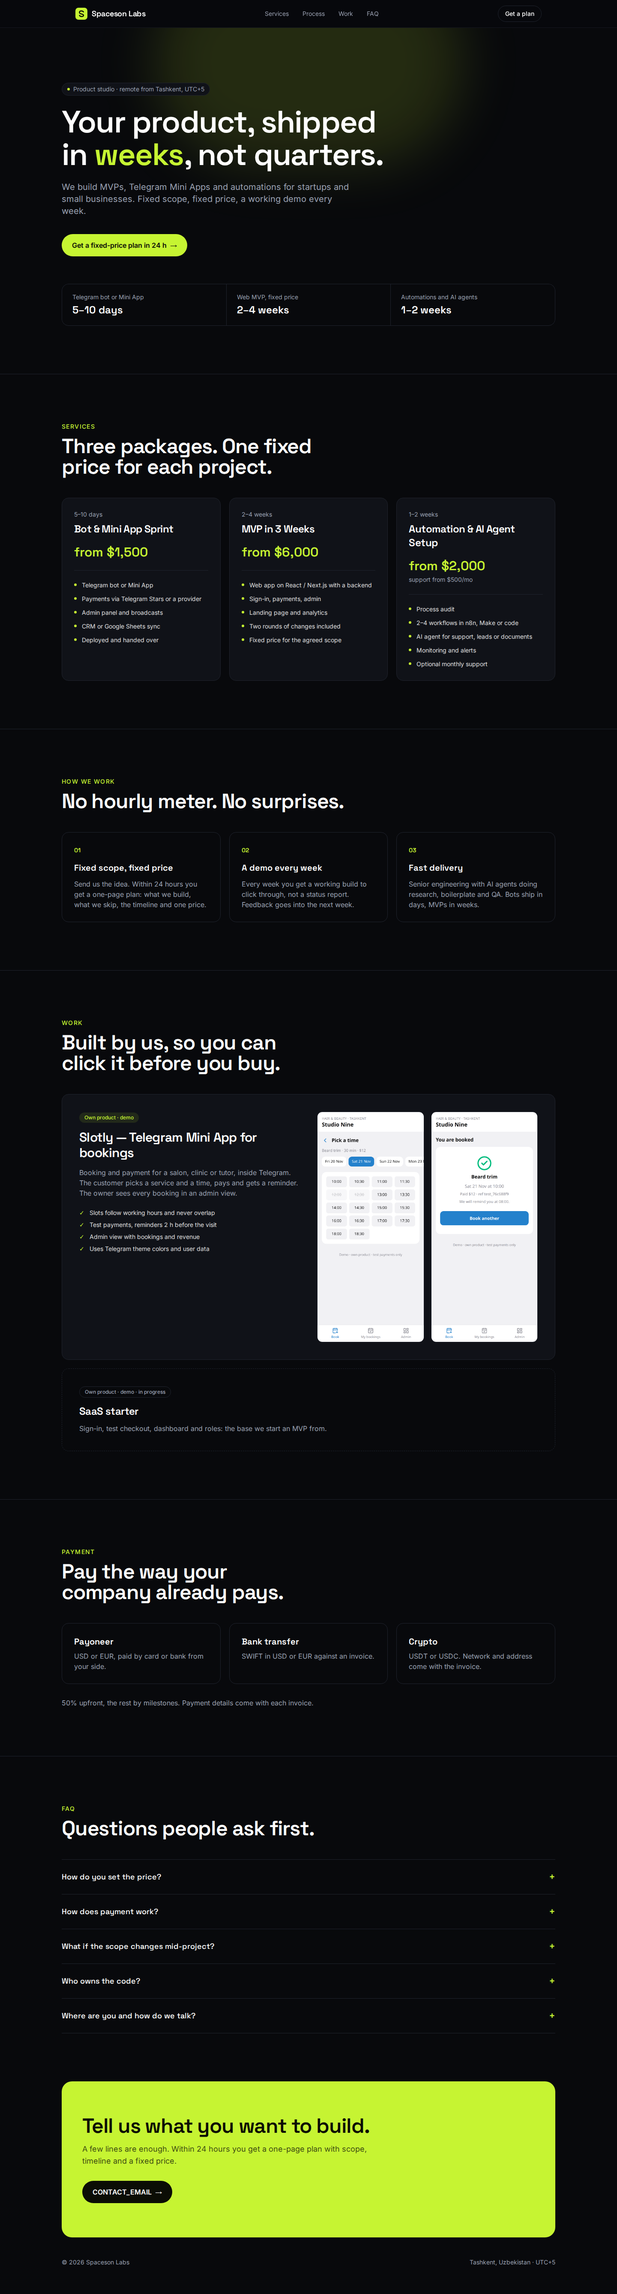
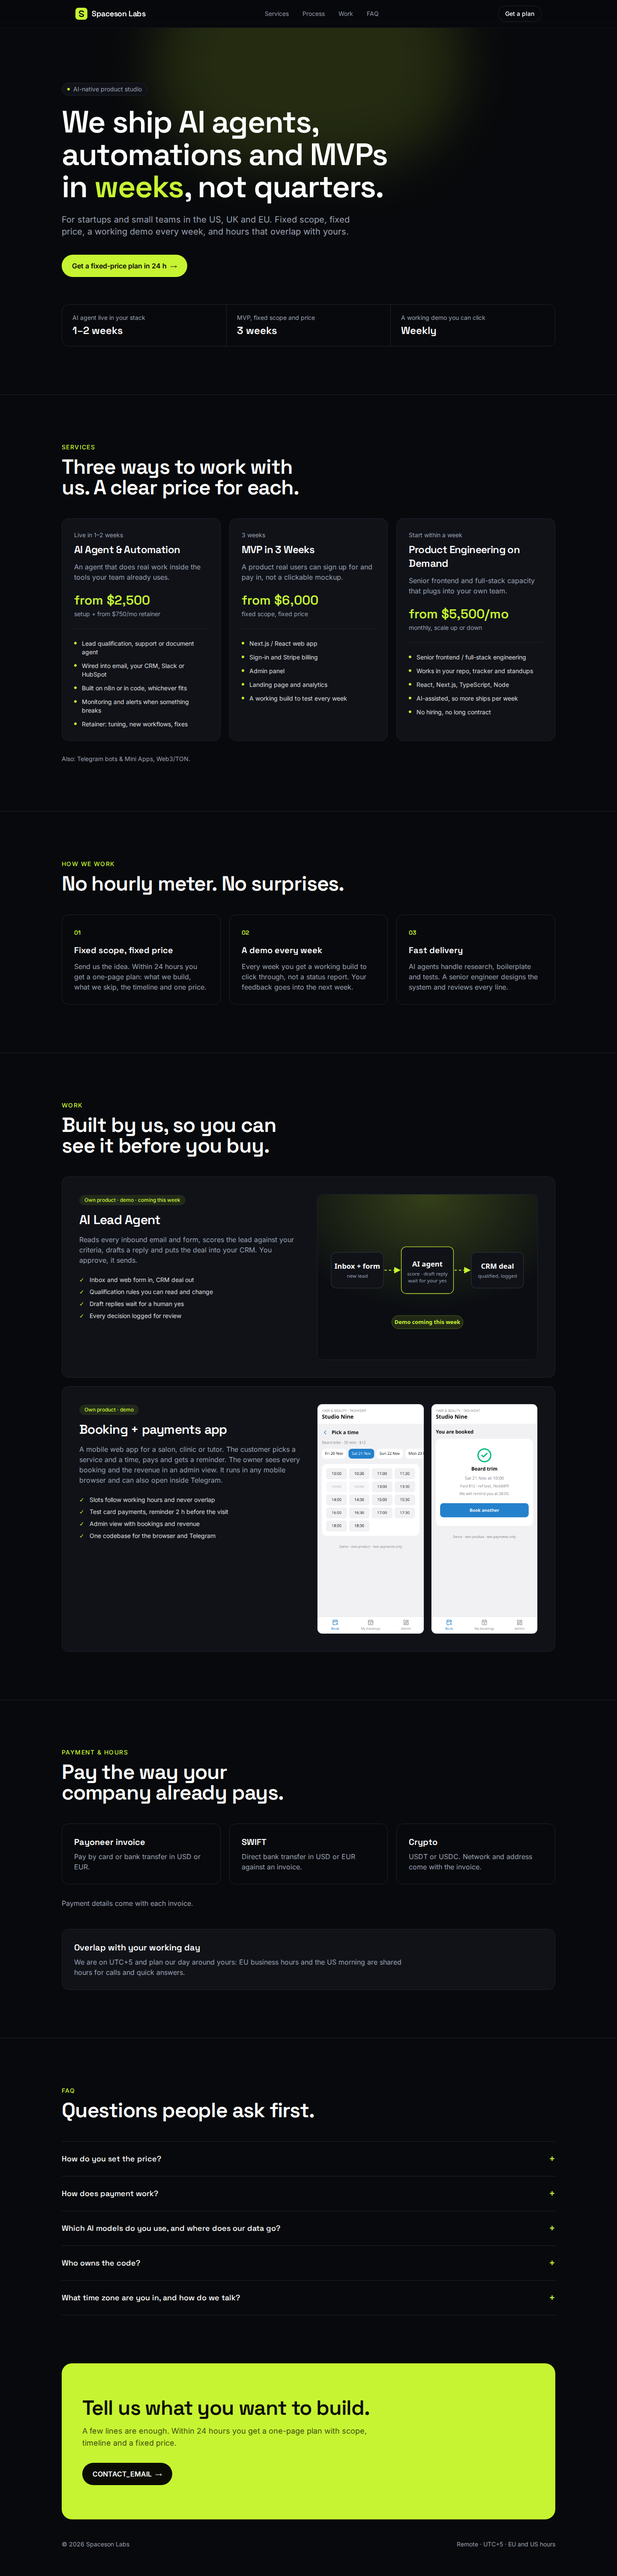
feat: reposition the site as an AI-native product studio
Lead with AI agents, automations and MVPs for US/UK/EU teams. New packages: AI Agent & Automation, MVP in 3 Weeks, Product Engineering on Demand; Telegram moves to one line under services. Work shows an AI Lead Agent placeholder and the booking app as a mobile web app. Adds Payoneer invoice, SWIFT and crypto payment, time zone overlap and a refreshed OG image.

diff --git a/src/config.ts b/src/config.ts
@@ -3,56 +3,66 @@ export const CONTACT_EMAIL = 'CONTACT_EMAIL';
 
 export const STUDIO_NAME = 'Spaceson Labs';
 
+export const SITE_TITLE = `${STUDIO_NAME} — AI agents, automations and MVPs`;
+
 export const SITE_DESCRIPTION =
-  'Spaceson Labs builds MVPs, Telegram Mini Apps and automations for startups and small businesses. Fixed scope, fixed price, a working demo every week.';
+  'Spaceson Labs is an AI-native product studio: we ship AI agents, automations and MVPs in weeks, not quarters. Fixed scope, fixed price, a working demo every week.';
 
 export type Service = {
   name: string;
   price: string;
-  priceNote?: string;
+  priceNote: string;
   timeline: string;
+  summary: string;
   includes: string[];
 };
 
 export const SERVICES: Service[] = [
   {
-    name: 'Bot & Mini App Sprint',
-    price: 'from $1,500',
-    timeline: '5–10 days',
+    name: 'AI Agent & Automation',
+    price: 'from $2,500',
+    priceNote: 'setup + from $750/mo retainer',
+    timeline: 'Live in 1–2 weeks',
+    summary: 'An agent that does real work inside the tools your team already uses.',
     includes: [
-      'Telegram bot or Mini App',
-      'Payments via Telegram Stars or a provider',
-      'Admin panel and broadcasts',
-      'CRM or Google Sheets sync',
-      'Deployed and handed over',
+      'Lead qualification, support or document agent',
+      'Wired into email, your CRM, Slack or HubSpot',
+      'Built on n8n or in code, whichever fits',
+      'Monitoring and alerts when something breaks',
+      'Retainer: tuning, new workflows, fixes',
     ],
   },
   {
     name: 'MVP in 3 Weeks',
     price: 'from $6,000',
-    timeline: '2–4 weeks',
+    priceNote: 'fixed scope, fixed price',
+    timeline: '3 weeks',
+    summary: 'A product real users can sign up for and pay in, not a clickable mockup.',
     includes: [
-      'Web app on React / Next.js with a backend',
-      'Sign-in, payments, admin',
+      'Next.js / React web app',
+      'Sign-in and Stripe billing',
+      'Admin panel',
       'Landing page and analytics',
-      'Two rounds of changes included',
-      'Fixed price for the agreed scope',
+      'A working build to test every week',
     ],
   },
   {
-    name: 'Automation & AI Agent Setup',
-    price: 'from $2,000',
-    priceNote: 'support from $500/mo',
-    timeline: '1–2 weeks',
+    name: 'Product Engineering on Demand',
+    price: 'from $5,500/mo',
+    priceNote: 'monthly, scale up or down',
+    timeline: 'Start within a week',
+    summary: 'Senior frontend and full-stack capacity that plugs into your own team.',
     includes: [
-      'Process audit',
-      '2–4 workflows in n8n, Make or code',
-      'AI agent for support, leads or documents',
-      'Monitoring and alerts',
-      'Optional monthly support',
+      'Senior frontend / full-stack engineering',
+      'Works in your repo, tracker and standups',
+      'React, Next.js, TypeScript, Node',
+      'AI-assisted, so more ships per week',
+      'No hiring, no long contract',
     ],
   },
 ];
+
+export const SERVICES_ALSO = 'Also: Telegram bots & Mini Apps, Web3/TON.';
 
 export const STEPS = [
   {
@@ -61,58 +71,86 @@ export const STEPS = [
   },
   {
     title: 'A demo every week',
-    text: 'Every week you get a working build to click through, not a status report. Feedback goes into the next week.',
+    text: 'Every week you get a working build to click through, not a status report. Your feedback goes into the next week.',
   },
   {
     title: 'Fast delivery',
-    text: 'Senior engineering with AI agents doing research, boilerplate and QA. Bots ship in days, MVPs in weeks.',
+    text: 'AI agents handle research, boilerplate and tests. A senior engineer designs the system and reviews every line.',
   },
 ];
 
-export type Demo = {
-  name: string;
-  summary: string;
-  points: string[];
-  shots: { src: string; alt: string }[];
+export type Shot = {
+  src: string;
+  alt: string;
+  width: number;
+  height: number;
 };
 
-export const DEMOS: Demo[] = [
+export type WorkCard = {
+  name: string;
+  label: string;
+  summary: string;
+  points: string[];
+  shots: Shot[];
+};
+
+export const WORK: WorkCard[] = [
   {
-    name: 'Slotly — Telegram Mini App for bookings',
+    name: 'AI Lead Agent',
+    label: 'Own product · demo · coming this week',
     summary:
-      'Booking and payment for a salon, clinic or tutor, inside Telegram. The customer picks a service and a time, pays and gets a reminder. The owner sees every booking in an admin view.',
+      'Reads every inbound email and form, scores the lead against your criteria, drafts a reply and puts the deal into your CRM. You approve, it sends.',
+    points: [
+      'Inbox and web form in, CRM deal out',
+      'Qualification rules you can read and change',
+      'Draft replies wait for a human yes',
+      'Every decision logged for review',
+    ],
+    shots: [
+      {
+        src: 'work/ai-lead-agent.svg',
+        alt: 'AI Lead Agent: placeholder, demo coming this week',
+        width: 800,
+        height: 600,
+      },
+    ],
+  },
+  {
+    name: 'Booking + payments app',
+    label: 'Own product · demo',
+    summary:
+      'A mobile web app for a salon, clinic or tutor. The customer picks a service and a time, pays and gets a reminder. The owner sees every booking and the revenue in an admin view. It runs in any mobile browser and can also open inside Telegram.',
     points: [
       'Slots follow working hours and never overlap',
-      'Test payments, reminders 2 h before the visit',
+      'Test card payments, reminder 2 h before the visit',
       'Admin view with bookings and revenue',
-      'Uses Telegram theme colors and user data',
+      'One codebase for the browser and Telegram',
     ],
     shots: [
       {
         src: 'work/slotly-slots.png',
-        alt: 'Slotly: picking a day and a time slot',
+        alt: 'Booking app: picking a day and a time slot',
+        width: 390,
+        height: 844,
       },
       {
         src: 'work/slotly-paid.png',
-        alt: 'Slotly: booking confirmed and paid',
+        alt: 'Booking app: booking confirmed and paid',
+        width: 390,
+        height: 844,
       },
     ],
   },
 ];
 
-export const NEXT_DEMO = {
-  name: 'SaaS starter',
-  text: 'Sign-in, test checkout, dashboard and roles: the base we start an MVP from.',
-};
-
 export const PAYMENT_METHODS = [
   {
-    name: 'Payoneer',
-    text: 'USD or EUR, paid by card or bank from your side.',
+    name: 'Payoneer invoice',
+    text: 'Pay by card or bank transfer in USD or EUR.',
   },
   {
-    name: 'Bank transfer',
-    text: 'SWIFT in USD or EUR against an invoice.',
+    name: 'SWIFT',
+    text: 'Direct bank transfer in USD or EUR against an invoice.',
   },
   {
     name: 'Crypto',
@@ -120,28 +158,34 @@ export const PAYMENT_METHODS = [
   },
 ];
 
+export const HOURS = {
+  title: 'Overlap with your working day',
+  text: 'We are on UTC+5 and plan our day around yours: EU business hours and the US morning are shared hours for calls and quick answers.',
+};
+
 export const FAQ = [
   {
     question: 'How do you set the price?',
     answer:
-      'By scope. You get a one-page plan with features, timeline and one fixed price before you pay anything. The prices above are where each package starts.',
+      'By scope. Before you pay anything you get a one-page plan with features, timeline and one fixed price. The prices above are where each package starts.',
   },
   {
     question: 'How does payment work?',
-    answer: '50% upfront, the rest split over milestones. Every payment gets an invoice.',
+    answer:
+      'Fixed-scope work: 50% upfront, the rest by milestones. Retainers and engineering capacity: monthly in advance. Every payment gets an invoice.',
   },
   {
-    question: 'What if the scope changes mid-project?',
+    question: 'Which AI models do you use, and where does our data go?',
     answer:
-      'New work goes into a separate milestone with its own fixed price. Nothing is added to the bill without your written yes.',
+      'We pick the model per task (OpenAI, Anthropic or open-source) and run it on your accounts and keys where possible, so your data stays under your contracts.',
   },
   {
     question: 'Who owns the code?',
-    answer: 'You do. The repository and all rights to the code move to you after the final payment.',
+    answer: 'You do. The repository, workflows and all rights move to you after the final payment.',
   },
   {
-    question: 'Where are you and how do we talk?',
+    question: 'What time zone are you in, and how do we talk?',
     answer:
-      'Tashkent, UTC+5. Day to day we write in Slack, Telegram or email, and meet on a call for each weekly demo.',
+      'UTC+5, overlapping EU business hours and the US morning. Day to day we write in Slack or email and meet on a video call for each weekly demo.',
   },
 ];

diff --git a/README.md b/README.md
@@ -1,6 +1,6 @@
 # Spaceson Labs site
 
-One-page site for Spaceson Labs, a product studio that builds MVPs, Telegram Mini Apps and automations. Static Astro + Tailwind, no client-side JavaScript.
+One-page site for Spaceson Labs, an AI-native product studio that ships AI agents, automations and MVPs for US/UK/EU startups and SMBs. Static Astro + Tailwind, no client-side JavaScript.
 
 | Desktop | Mobile |
 |---|---|
